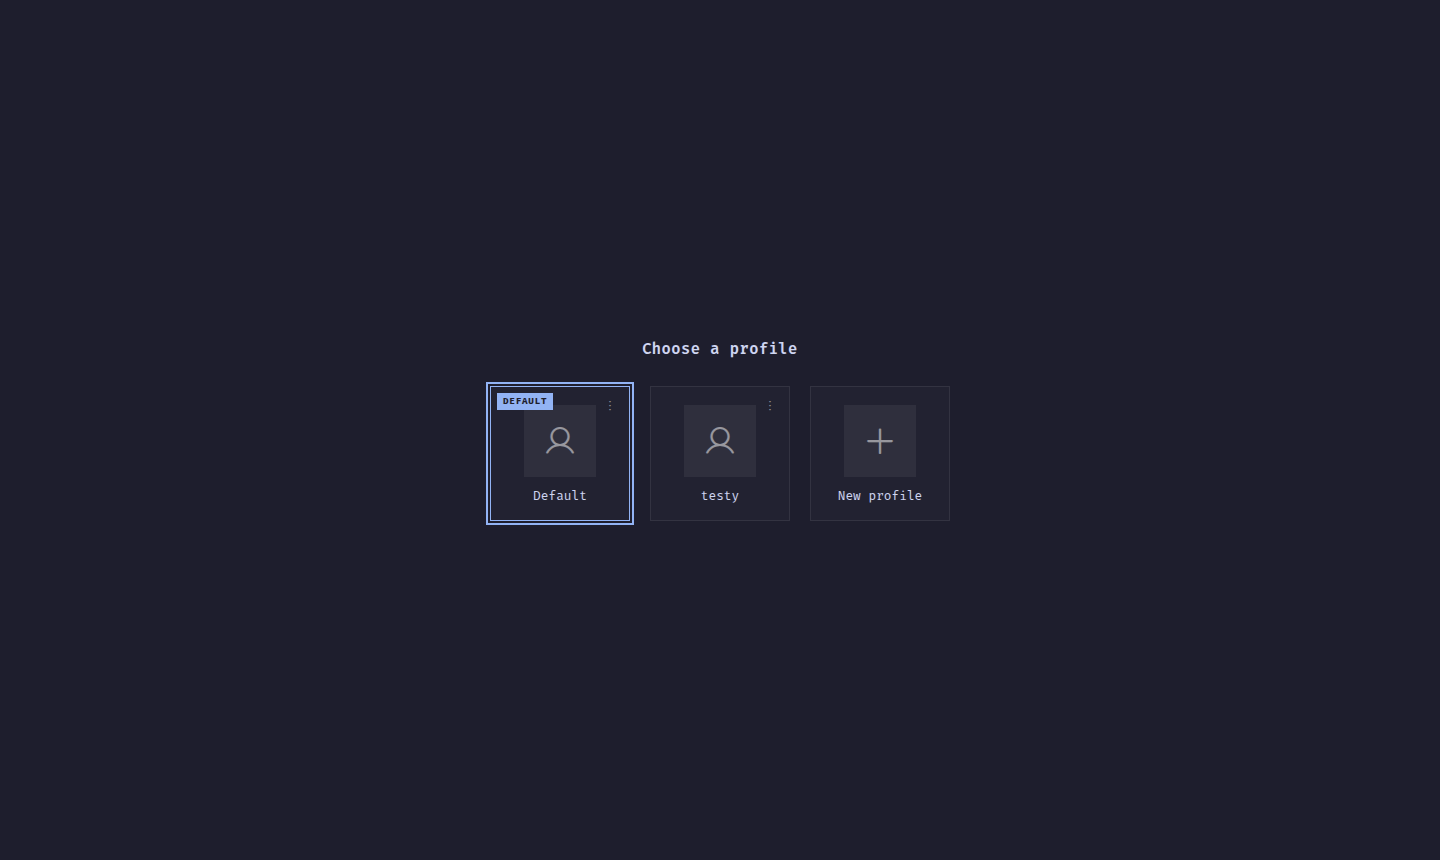
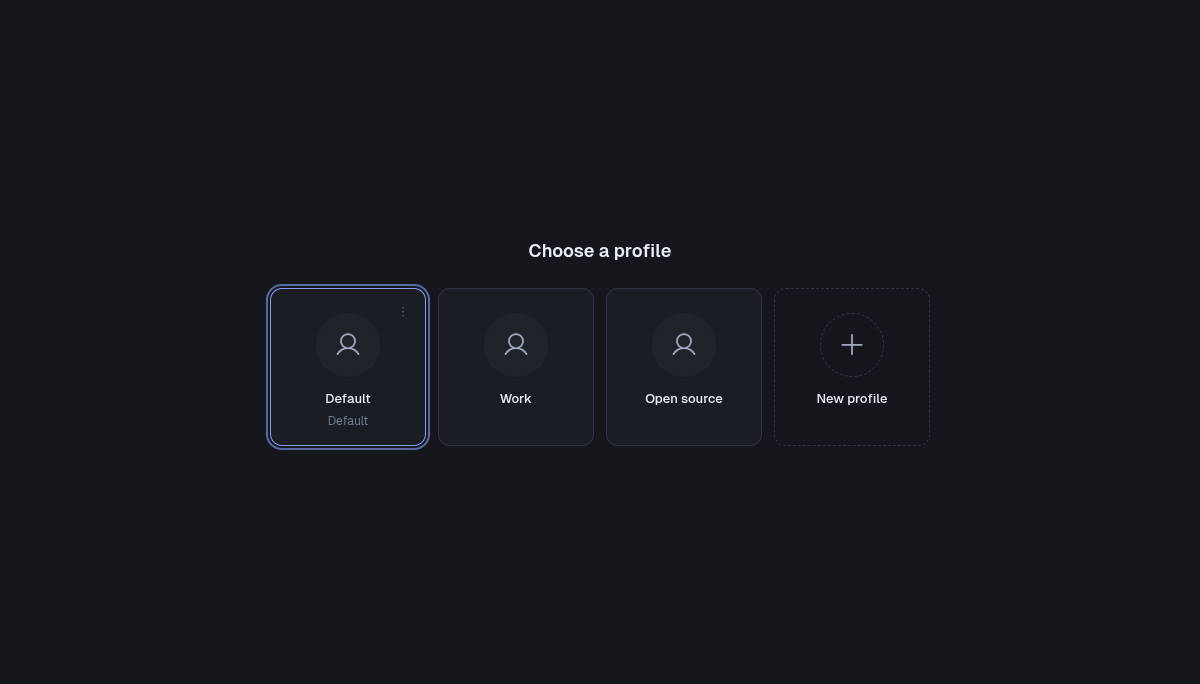
readme update

diff --git a/README.md b/README.md
@@ -1,196 +1,214 @@
 <p align="center">
-  <img src="logo.png" alt="TerminalVibe" width="200">
+  <img src="logo.png" alt="TerminalVibe" width="160">
 </p>
 
 <h1 align="center">TerminalVibe</h1>
 
-<p align="center">A terminal multiplexer and desktop workspace app with integrated browser, built on Electron.</p>
+<p align="center">
+  A terminal multiplexer for the AI-agent era.<br>
+  Workspaces, split panes, tab groups and real browser tabs in one quiet, keyboard-first desktop app.
+</p>
 
 <p align="center">
-  <img src="screenshots/splits.png" alt="TerminalVibe - Split panes and workspaces" width="800">
+  <a href="https://github.com/Medamine-Bahassou/TerminalVibe/releases">Download</a> ·
+  <a href="#features">Features</a> ·
+  <a href="#keyboard-shortcuts">Shortcuts</a> ·
+  <a href="#development">Development</a> ·
+  <a href="ARCHITECTURE.md">Architecture</a>
 </p>
+
+<p align="center">
+  <img src="screenshots/workspace.png" alt="A workspace with Neovim, a dev server and a live browser preview side by side" width="900">
+</p>
+
+## Why TerminalVibe
+
+Your editor, dev server, logs, coding agents and the page you're building all live
+in one window. Each project gets its own **workspace** with its own split layout.
+The sidebar shows what is running in each workspace, so you can see which ones are
+busy without opening them.
 
 ## Features
 
-- **Profiles** - isolated per-profile state with a launch picker, default profile badge, and in-place switching (`Ctrl+Shift+P`)
-- **Right sidebar** - resizable panel with a clipboard history widget, toggled from the titlebar
-- **Tab search & maximize** - `Ctrl+Shift+O` to jump to any tab, `Ctrl+Shift+M` to maximize/restore a tab
-- **Multi-workspace** - switch between independent workspace contexts via sidebar, with drag-and-drop reordering and color customization
-- **Split panes** - recursive horizontal and vertical splits with drag-and-drop terminal reordering between panes
-- **Tabbed groups** - each pane holds a tab bar for terminals or browser sessions
-- **Built-in browser** - embedded web browsing with URL bar, navigation (back/forward/reload), history, and local file support
-- **Running servers** - titlebar dropdown showing listening ports and process names; refresh the list or open a server in a browser tab
-- **PDF viewer** - open PDFs directly in a tab via the browser's native viewer
-- **Terminal image previews** - native SIXEL and iTerm2 inline images in terminal panes, including Yazi previews
-- **Image viewer** - display images inline in a browser tab via the browser's native viewer
-- **Background images** - set terminal background images in global or per-tab mode, with adjustable opacity
-- **Shell integration** - automatic current working directory (CWD) reporting via OSC 7 for bash and zsh, persisted across sessions
-- **Custom themes** - create, edit, import, and export themes with full color control (terminal palette + UI colors), with live preview
-- **8 built-in themes** - Catppuccin Mocha/Latte, Dracula, Gruvbox, Tokyo Night, Nord, Solarized Dark, Monochrome
-- **Configurable keyboard shortcuts** - rebind every shortcut from the Settings panel with conflict resolution
-- **Per-terminal font zoom** - Ctrl+Scroll to scale individual terminals
-- **Terminal search** - Ctrl+Shift+F with incremental search, next/previous navigation
-- **Multi-select terminals** - Ctrl+Alt+Click to select multiple terminals
-- **Right-click copy/paste** - context menu on terminal body for copy and paste
-- **Directional pane navigation** - Alt+H/J/K/L to focus adjacent split panes
-- **Persistent state** - layout, themes, settings, and open browser URLs persist across sessions (auto-save every 30s)
-- **Plugin system** - drop a plugin folder into `~/.terminalvibe/plugins/` to add commands, keybindings, terminal lifecycle hooks, context-menu items, themes, settings sections, and UI widgets (see [docs/plugin-development.md](docs/plugin-development.md))
-- **Frameless window** - custom titlebar with logo, sidebar toggle, and window controls (minimize/maximize/close)
-- **Status bar** - shows active workspace, terminal name, terminal dimensions + font size, connection status, multi-select count, and real-time clock
-- **Command line** - launch workspaces and build terminal/browser layouts from the terminal: `new`, `create` (YAML), `list`, `close`, `attach` (see [docs/cli.md](docs/cli.md))
-- **Agent orchestration skill** - install and activate/deactivate from Settings → Skills, then let an agent launch other agents in named terminal splits, arrange running panes, read output, and send follow-up input through a local control channel (see [docs/agent-orchestration.md](docs/agent-orchestration.md))
+### Workspaces and layout
+- **Workspaces** with names, icons, colors and folders. Drag to reorder and pin the ones you use most. Your last workspace is restored on launch.
+- **Recursive split panes**, horizontal and vertical. Drag tabs between panes, or onto the sidebar to move them to another workspace.
+- **Tab groups** in every pane. Each group holds any mix of terminals and browser tabs.
+- **Maximize** any tab (`Ctrl+Shift+M`), **lock** a tab to block accidental typing, or **detach** a tab into its own window.
+- **Live process list** for every workspace in the sidebar, with brand icons for `nvim`, `node`, `python`, `claude`, `codex` and more.
+- **Auto-run workspaces**: save a layout once, then launch it again with every tab running its command or opening its URL.
+- **Profiles**: fully isolated sets of workspaces and settings with a launch picker and a default profile (`Ctrl+Shift+P`).
+
+### Built-in browser
+- **Browser tabs next to your terminals**, with back/forward, reload, URL bar search and browsing history.
+- **Running servers** menu in the titlebar lists every listening port with its process. Click one to open it in a tab.
+- Opens local files, **PDFs** and **images** in the browser's native viewers.
+- Terminal links can open in a browser tab or in your system browser (your choice in Settings).
+
+### Built for coding agents
+- **Claude Code session history**: a drawer in any Claude tab that lists past conversations across projects. Search them, resume one in place, open one in a new tab, or drag one into a chat to attach its context.
+- **Workspace context**: drag a workspace onto a Claude chat to attach a snapshot of all its tabs.
+- **Agent orchestration skill**: install it for Claude Code or Codex from **Settings → Skills**. Your agent can then open other agents in named splits, arrange panes, read their output, send follow-up input, and drive browser panes through an authenticated local control channel. See [docs/agent-orchestration.md](docs/agent-orchestration.md).
+- **Command-finished notifications** when a long task ends while the app is in the background.
+
+### Terminal
+- xterm.js with the WebGL renderer, Unicode 11 and clickable links.
+- **Inline images**: SIXEL and iTerm2 protocols, including Yazi previews.
+- **Shell integration** for bash and zsh: the working directory (OSC 7) and prompt markers are tracked and persisted.
+- Incremental search (`Ctrl+Shift+F`), per-terminal font zoom (`Ctrl+Scroll`), multi-select (`Ctrl+Alt+Click`), clipboard history and pasting images.
+- **Directional pane focus** with `Alt+H/J/K/L`.
+
+### Command palette and snippets
+- **Command palette** (`Ctrl+Shift+K`): every action in one searchable list.
+- **Tab search** (`Ctrl+Shift+O`): jump to any tab in any workspace.
+- **Snippets** (`Ctrl+Shift+Y`) and **history**, in the same palette.
+
+### Look and feel
+- Calm dark UI with Geist Sans and Geist Mono, and dark, light or system color schemes.
+- **9 built-in themes**: Carbon, Graphite, Catppuccin Mocha, Dracula, Gruvbox, Tokyo Night, Nord, Solarized Dark and Monochrome. Import custom themes as JSON.
+- Terminal **background images**, global or per tab, with adjustable opacity.
+- **Every shortcut can be rebound** in Settings, with conflict detection and per-shortcut reset.
+
+### Extensible
+- **Plugins**: drop a folder into `~/.terminalvibe/plugins/` to add commands, keybindings, terminal hooks, context-menu items, themes, settings sections and widgets. See [docs/plugin-development.md](docs/plugin-development.md).
+- **CLI**: `terminalvibe new | create -f layout.yaml | list | close | attach` builds workspaces from the command line or from YAML. See [docs/cli.md](docs/cli.md).
 
 ## Screenshots
 
-### Workspaces, split panes and tabs
-<p align="center">
-  <img src="screenshots/splits.png" alt="TerminalVibe - Split panes and workspaces" width="800">
-</p>
+### Agents side by side
+Claude Code and Codex in named splits. The sidebar groups the processes running in each workspace.
 
-### Running AI coding agents
-<p align="center">
-  <img src="screenshots/claude.png" alt="TerminalVibe - Running Claude Code in the terminal" width="800">
-</p>
+<p align="center"><img src="screenshots/agents.png" alt="Claude Code and Codex running in split panes" width="900"></p>
 
-### Built-in browser
-Browser tabs live next to terminals in the same pane.
+### Claude Code session history
+Browse, search, resume or drag in past conversations without leaving the pane.
 
-<p align="center">
-  <img src="screenshots/browser.png" alt="TerminalVibe - Terminals and a browser tab in split panes" width="800">
-</p>
+<p align="center"><img src="screenshots/claude-history.png" alt="Claude sessions drawer listing past conversations" width="900"></p>
 
-<p align="center">
-  <img src="screenshots/youtube.png" alt="TerminalVibe - Built-in browser playing YouTube" width="800">
-</p>
+### Running servers
+Every listening port at a glance. Click one to open it in a browser tab.
 
-### Right sidebar with clipboard history
-<p align="center">
-  <img src="screenshots/right-sidebar.png" alt="TerminalVibe - Right sidebar panel" width="800">
-</p>
+<p align="center"><img src="screenshots/servers.png" alt="Running servers dropdown showing node and python servers" width="900"></p>
 
-### Profiles
-<p align="center">
-  <img src="screenshots/profiles.png" alt="TerminalVibe - Profile picker" width="800">
-</p>
+### Monitoring layouts
+Build any layout from splits. Here: `btop`, an API server and a git log.
 
-### Settings
-Sections: Appearance, Terminal, Shortcuts, Theme Editor, Plugins, Advanced.
+<p align="center"><img src="screenshots/monitoring.png" alt="A workspace with btop, an API server and git log" width="900"></p>
+
+### Command palette and tab search
 
 <p align="center">
-  <img src="screenshots/settings.png" alt="TerminalVibe - Settings" width="800">
+  <img src="screenshots/command-palette.png" alt="Command palette" width="445">
+  <img src="screenshots/tab-search.png" alt="Tab search across workspaces" width="445">
 </p>
 
-### Rebindable keyboard shortcuts
+### Themes and shortcuts
+
 <p align="center">
-  <img src="screenshots/shortcuts.png" alt="TerminalVibe - Keyboard shortcuts settings" width="800">
+  <img src="screenshots/themes.png" alt="Appearance settings with color schemes and themes" width="445">
+  <img src="screenshots/shortcuts.png" alt="Rebindable keyboard shortcuts" width="445">
 </p>
 
-### Theme editor
+### Profiles and skills
+
 <p align="center">
-  <img src="screenshots/theme-editor.png" alt="TerminalVibe - Theme editor" width="800">
+  <img src="screenshots/profiles.png" alt="Profile picker" width="445">
+  <img src="screenshots/skills.png" alt="Agent orchestration skill installer" width="445">
 </p>
 
-### Background images
-<p align="center">
-  <img src="screenshots/background.png" alt="TerminalVibe - Terminal background image" width="800">
-</p>
+## Keyboard shortcuts
 
-## Default Keyboard Shortcuts
-
-All shortcuts are rebindable in Settings → Shortcuts.
+These are the defaults. Rebind any of them in **Settings → Shortcuts**.
 
 | Action | Shortcut |
-|--------|----------|
-| New terminal / close terminal | `Ctrl+Shift+T` / `Ctrl+Shift+W` |
-| Split horizontal / vertical | `Ctrl+Shift+D` / `Ctrl+Shift+E` |
+|---|---|
+| New terminal / close tab | `Ctrl+Shift+T` / `Ctrl+Shift+W` |
 | New browser tab | `Ctrl+Shift+B` |
-| Search in terminal / search tabs | `Ctrl+Shift+F` / `Ctrl+Shift+O` |
+| Split horizontal / vertical | `Ctrl+Shift+D` / `Ctrl+Shift+E` |
+| Command palette | `Ctrl+Shift+K` |
+| Search tabs | `Ctrl+Shift+O` |
+| Snippets | `Ctrl+Shift+Y` |
+| Search in terminal | `Ctrl+Shift+F` |
 | Copy / paste | `Ctrl+Shift+C` / `Ctrl+Shift+V` |
 | Next / previous tab | `Ctrl+PageDown` / `Ctrl+PageUp` |
 | Next / previous workspace | `Ctrl+Shift+PageDown` / `Ctrl+Shift+PageUp` |
-| Jump to workspace N | `Alt+1` … `Alt+9` |
-| Focus adjacent pane | `Alt+H/J/K/L` |
-| Multi-select terminals | `Ctrl+Alt+Click` |
+| Jump to workspace 1–9 | `Alt+1` … `Alt+9` |
+| Focus pane left / down / up / right | `Alt+H` / `Alt+J` / `Alt+K` / `Alt+L` |
 | Maximize / restore tab | `Ctrl+Shift+M` |
+| Multi-select terminals | `Ctrl+Alt+Click` |
 | Profiles | `Ctrl+Shift+P` |
 | Toggle sidebar | `Ctrl+Shift+S` |
 | Quit | `Ctrl+Shift+Q` |
 
-## Tech Stack
+## Install
 
-| Layer | Technology |
-|-------|-----------|
-| Shell | Electron - PTY management via `node-pty` in the main process, IPC, window control |
-| Frontend | Vanilla JS (single IIFE), xterm.js 5.3 with WebGL renderer, no framework |
-| Backend | Node.js - WebSocket PTY server (browser dev mode), HTTP browser proxy, static server |
-
-## Project Structure
-
-```
-├── app.js                  # Frontend UI logic (single IIFE)
-├── index.html              # HTML entry point
-├── style.css               # Styles
-├── server.js               # Node.js backend (browser dev mode: PTY WS + HTTP proxy)
-├── electron/
-│   ├── main.js             # Main process: node-pty PTY, WebContentsView browser tabs
-│   └── preload.js          # contextBridge IPC API
-├── vendor/                 # Vendored xterm.js addons, Coloris assets
-├── examples/               # Example plugins (see docs/plugin-development.md)
-├── dist/                   # Build output
-└── ARCHITECTURE.md         # Detailed architecture docs
-```
-
-## Prerequisites
-
-- Node.js 18+
-- npm
-
-On Ubuntu/Debian (including WSL), install the native build tools before running
-`npm install`. `node-pty` needs Python, `make`, and a C++ compiler when a prebuilt
-binary is unavailable:
-
-```bash
-sudo apt-get update
-sudo apt-get install -y build-essential python3
-```
-
-Electron on WSL also needs GUI support through WSLg. If `npm install` fails,
-resolve the error and rerun it before starting the app; an incomplete install
-can leave the `electron` command unavailable. Deprecation warnings alone do not
-stop installation.
+Grab an **AppImage**, **.deb** or **.rpm** from the
+[releases page](https://github.com/Medamine-Bahassou/TerminalVibe/releases).
+Every push to `master` builds a new release.
 
 ## Development
 
-```bash
-npm install
-npm run dev            # browser dev mode (Node backend on ports 7681/7682/6969)
-npm run electron:dev   # Electron dev mode (native PTY via node-pty)
-```
-
-`npm install` also generates the frontend assets in `vendor/`. Run one dev mode
-at a time, since both use the static server on port 7769. To open Electron while
-`npm run dev` is already running, use `npm run electron`.
-
-## Terminal image previews
-
-Terminal panes support SIXEL and iTerm2 inline images. Yazi detects SIXEL through
-terminal capability queries; no Yazi wrapper or terminal-name spoofing is needed.
-TerminalVibe sets its own terminal identity and clears inherited graphics markers
-from launchers such as Konsole and Kitty.
-
-After updating, restart TerminalVibe (and the backend in browser dev mode), open a
-new terminal and relaunch Yazi. Existing shells retain their original environment.
-Save running work before restarting. Custom shell startup files must not override
-`TERM_PROGRAM` or restore another terminal's identity variables.
-
-Run `npm run test:images` for protocol and rendering checks, or
-`npm run test:images:yazi` to additionally test the installed Yazi with a real PTY
-and an isolated temporary configuration.
-
-## Build
+**Requirements:** Node.js 18+ and npm. `node-pty` compiles native code when no prebuilt
+binary is available. On Ubuntu/Debian (including WSL), install the build tools first:
 
 ```bash
-npm run build
+sudo apt-get install -y build-essential python3
 ```
 
-Outputs the frontend bundle to `dist/` and produces Linux packages (AppImage / dir) via electron-builder.
+On WSL, Electron needs WSLg for GUI support.
+
+```bash
+npm install              # also generates vendor/ assets
+npm run electron:dev     # desktop app (main-process changes need a full restart)
+npm start                # browser mode: node server.js → http://localhost:6969
+```
+
+Run one mode at a time, since both use the dev static server on port 7769.
+
+After editing frontend files, copy them into `dist/`:
+
+```bash
+node scripts/build-dist.js
+```
+
+### Tests
+
+```bash
+npm test                 # CLI, skills, agent control, servers, shell startup, sessions
+npm run test:browser     # browser-pane resize + snapshot
+npm run test:sessions    # Claude session history drawer
+npm run test:images      # SIXEL / iTerm2 image rendering
+npm run test:images:yazi # same, plus a real Yazi in an isolated PTY
+node --check app.js      # quick syntax check
+```
+
+### Build packages
+
+```bash
+npm run build            # unpacked Linux build in release/
+npm run build:linux      # AppImage + deb + rpm
+npm run build:win        # NSIS installer + portable
+```
+
+## Project layout
+
+| Path | Role |
+|---|---|
+| `index.html` | Static markup: titlebar, sidebar, modals, settings |
+| `app.js` | All renderer logic (one IIFE): state, layout, terminals, browser tabs, settings |
+| `session-drawer.js` | Claude Code session history drawer |
+| `workspace.css` | Design system and component styles (`style.css` holds the base layout) |
+| `electron/main.js` · `preload.js` | Main process: PTYs, IPC, native menus, windows, browser views |
+| `electron/agent-control.js` | Authenticated local control channel used by the orchestration skill |
+| `server.js` | Browser-mode backend (WebSocket PTY server, proxy) |
+| `skills/terminalvibe-orchestration/` | Agent skill and the `tv.js` client |
+| `examples/` | Example plugins |
+| `docs/` | CLI, plugins, agent orchestration, feature recipes |
+
+Read [ARCHITECTURE.md](ARCHITECTURE.md) for the full architecture and
+[docs/adding-a-feature.md](docs/adding-a-feature.md) for recipes.
+
+## Tech stack
+
+Electron · node-pty · xterm.js 5 (WebGL, image, search, unicode11, web-links addons) ·
+vanilla JS with no framework or bundler · Phosphor icons · Geist fonts.
